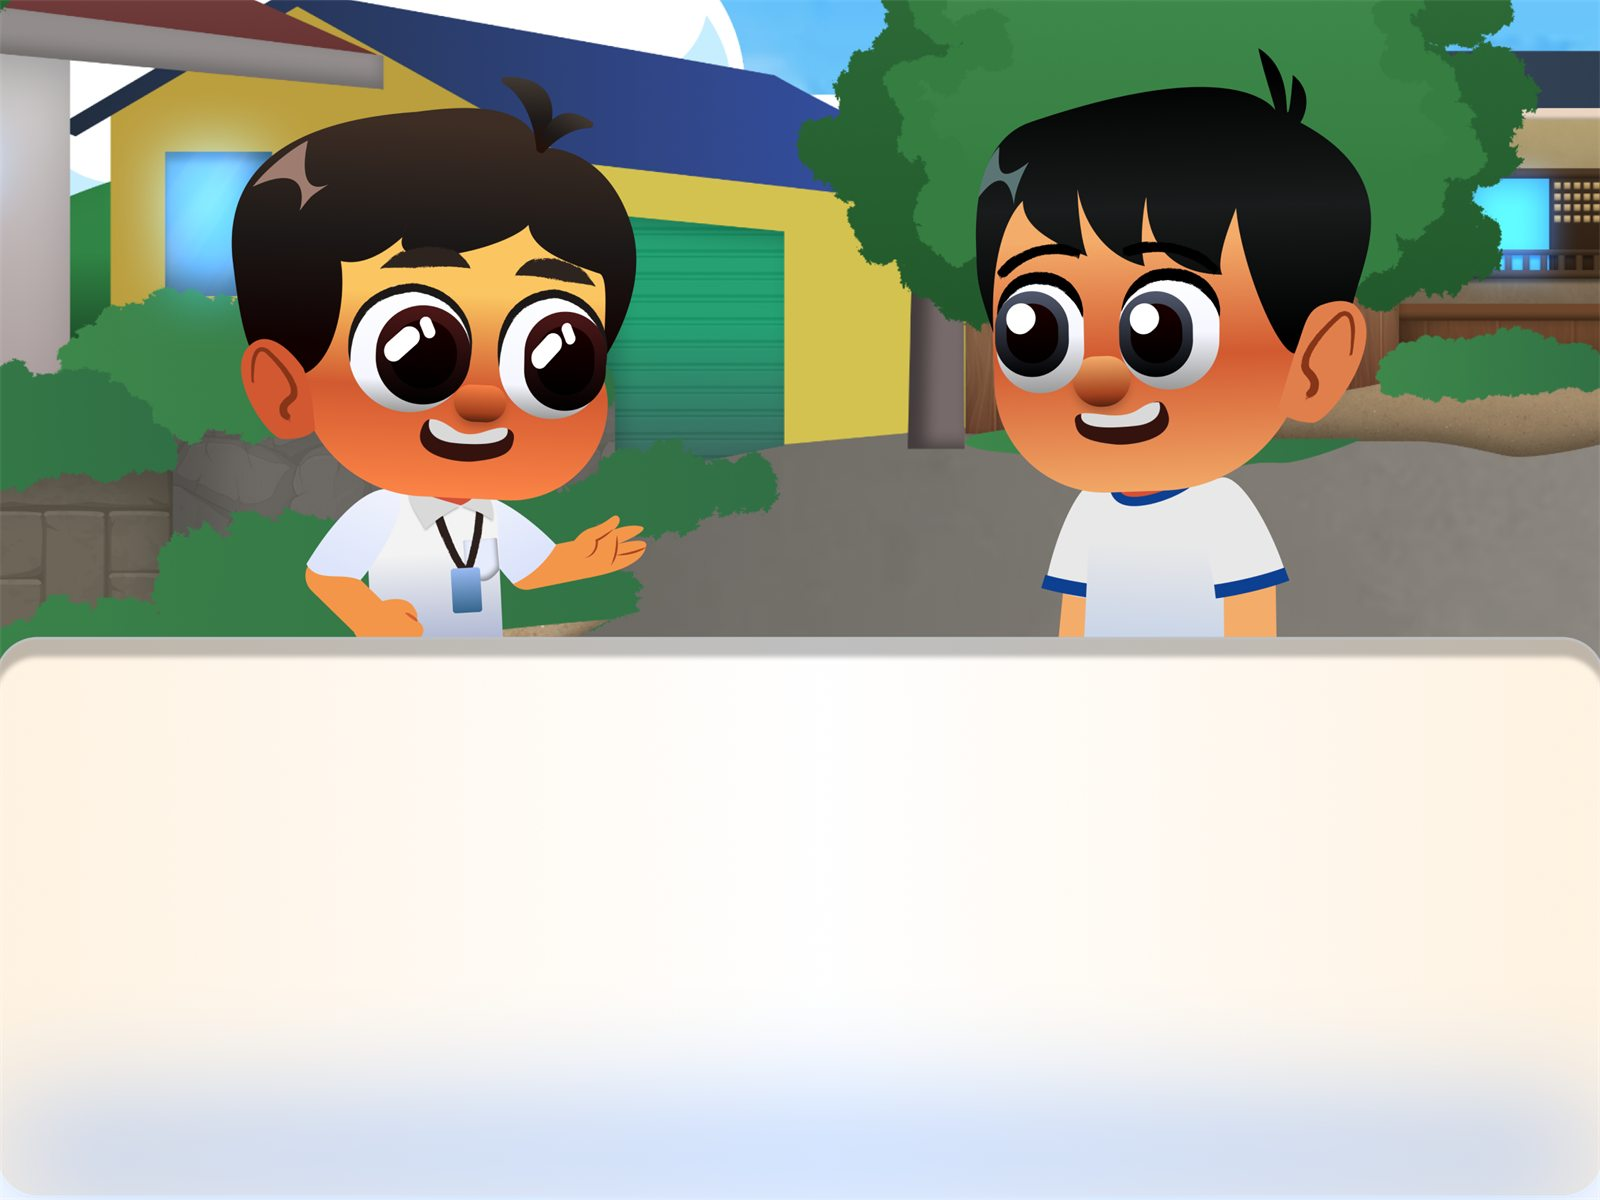
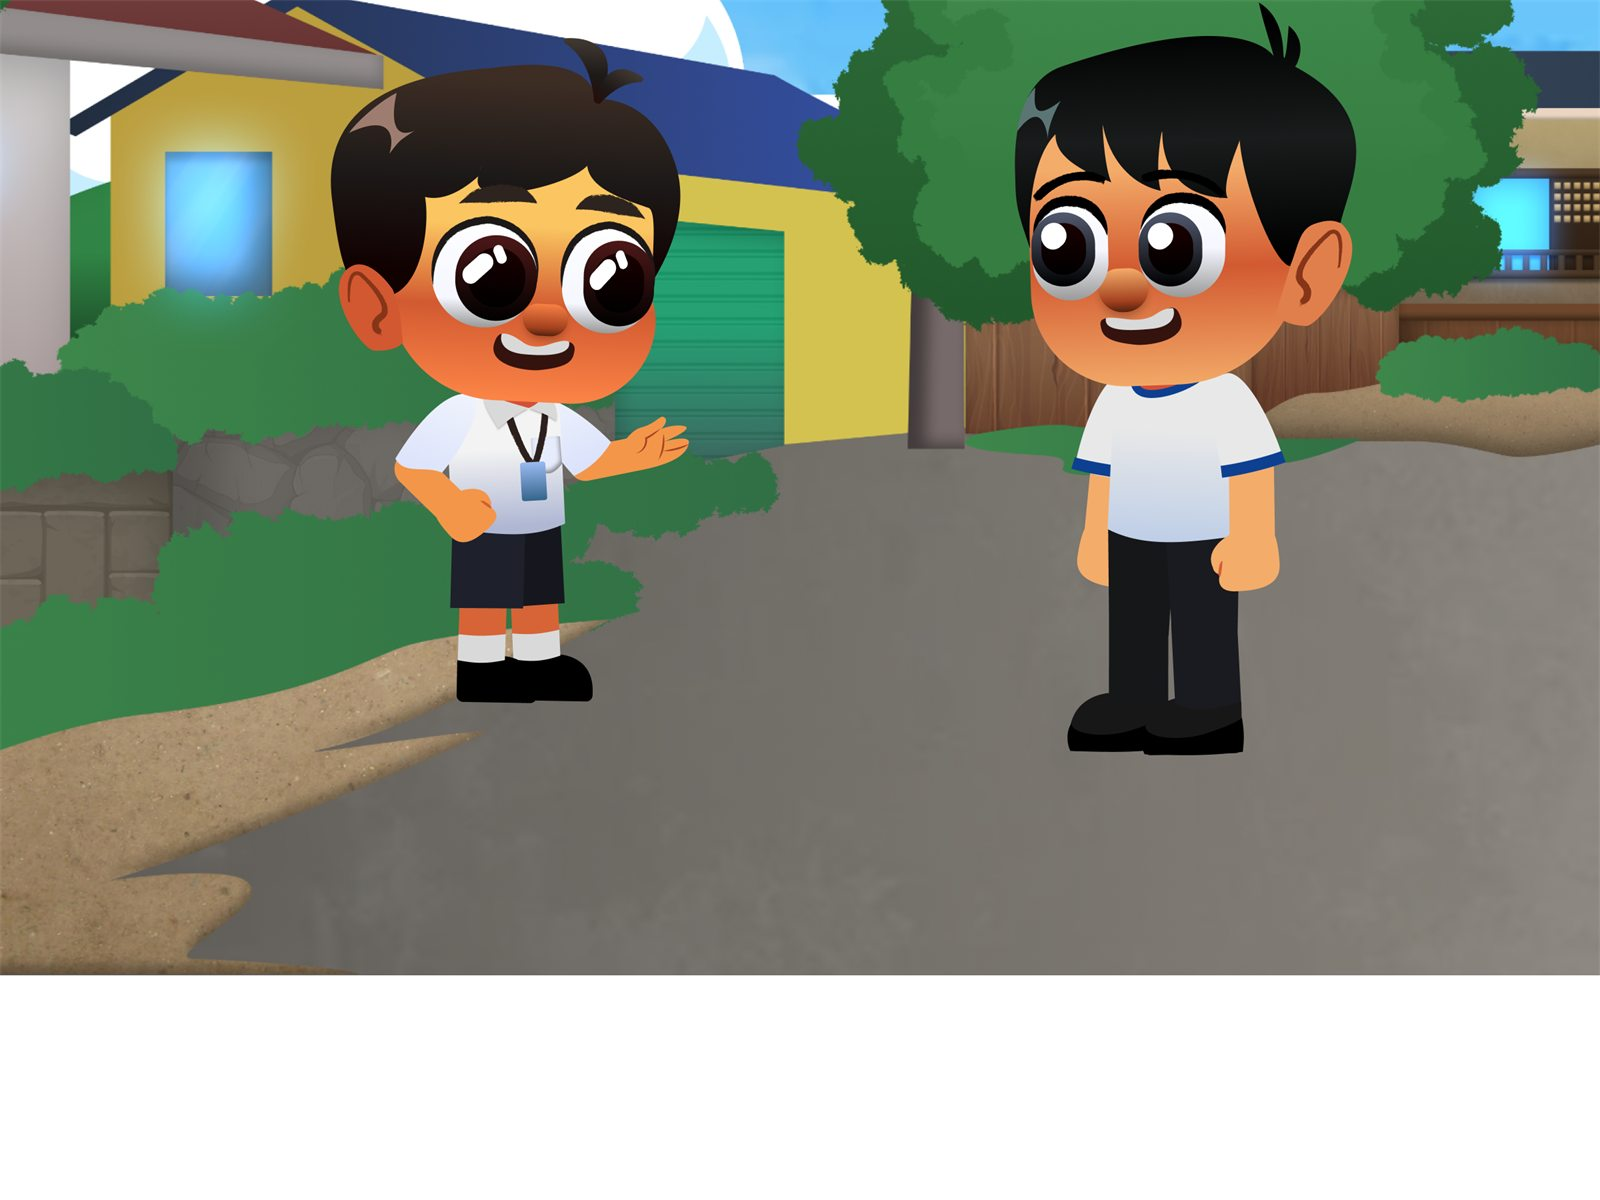
Fill the window with the story art and overlap a separate dialogue box

diff --git a/dashboard/dashboard.js b/dashboard/dashboard.js
@@ -782,6 +782,7 @@
       return;
     }
     if (lkPhone.matches) {      stages.forEach((stage) => { stage.style.transform = ''; });
+      $('st-art').style.transform = '';
       if (bg) bg.style.cssText = '';
       return;
     }
@@ -789,9 +790,13 @@
     const W = scene.clientWidth;
     const H = scene.clientHeight;
     if (lkScene === 'lk-story') {
-      // The story pictures show whole: the same picture, blurred, fills what is left of the window
+      // The illustration covers the window. Its bottom is white, so the box always starts above that: at
+      // the frame's height (478 of 900) on any window. The words scale with the screen and start on the box.
+      const sA = Math.max(W / 1200, H / 900);
+      const up = Math.min(abState.oy, 900 - H / sA);
+      $('st-art').style.transform = `translate(${(W - 1200 * sA) / 2}px, ${-up * sA}px) scale(${sA})`;
       const sS = Math.min(W / 1200, H / 900);
-      stages[0].style.transform = `translate(${(W - 1200 * sS) / 2}px, ${(H - 900 * sS) / 2}px) scale(${sS})`;
+      stages[0].style.transform = `translate(${(W - 1200 * sS) / 2}px, ${H * 478 / 900 - 478 * sS}px) scale(${sS})`;
       return;
     }
     if (lkScene === 'lk-bb') {
@@ -1090,10 +1095,10 @@
       ],
       pamagat: 'ANG PAMILYANG PUNONG-PUNO NG PAGMAMAHAL',
       pahina: [
-        { f: 'f0' },
+        { f: 'f0', oy: 120 },
         { f: 'f1', t: 'Habang naglalakad sa aming barangay, nakita ko ang kaibigan kong si Popoy.' },
         { f: 'f2', t: '<em>“Popoy! Papasok ka na ba sa paaralan? Sabay na tayo!”</em> tawag ko.<br><em>“Hindi. Aalis kami ng mga mama ko,”</em> sagot niya.' },
-        { f: 'f3', t: '<em>“Mga mama? Hindi ba mama at papa ang bumubuo ng pamilya?”</em> pagtataka ko.', spot: [440, 0, 445, 478, 'Si Biboy na nagtataka'], tanong: 'Anong emosyon kaya ito?<br>Ipakita mo rin!' },
+        { f: 'f3', t: '<em>“Mga mama? Hindi ba mama at papa ang bumubuo ng pamilya?”</em> pagtataka ko.', spot: [416, 0, 365, 478, 'Si Biboy na nagtataka'], tanong: 'Anong emosyon kaya ito?<br>Ipakita mo rin!' },
         { f: 'f4', t: '<em>“Mga mama? Hindi ba mama at papa ang bumubuo ng pamilya?”</em> pagtataka ko.' },
         { f: 'f5', t: 'Umiling si Popoy.<br><em>“Dalawa ang mama ko.”</em>' },
         { f: 'f6', t: '<em>“Dalawa ang mama ko at mahal na mahal nila ako.”</em>' },
@@ -1101,35 +1106,35 @@
         { f: 'f8', t: '<em>“Kapag nalulungkot ako, niyayakap nila ako.”</em>' },
         { f: 'f9', t: '<em>“Kapag may sakit ako, inaalagaan nila ako.”</em>' },
         { f: 'f10', t: '<em>“Kapag nahihirapan ako, tinutulungan nila ako.”</em>' },
-        { f: 'f11', t: '<em>“Kapag nahihirapan ako, tinutulungan nila ako.”</em>', spot: [290, 0, 680, 478, 'Si Popoy at ang kanyang dalawang mama'], tanong: 'Mahal ba ng dalawang<br>mama si Popoy?' },
+        { f: 'f11', t: '<em>“Kapag nahihirapan ako, tinutulungan nila ako.”</em>', spot: [265, 0, 730, 478, 'Si Popoy at ang kanyang dalawang mama'], tanong: 'Mahal ba ng dalawang<br>mama si Popoy?' },
         { f: 'f13', t: 'Lumabas ang dalawang mama niya at niyakap siya.' },
         { f: 'f14', t: 'Lumabas ang dalawang mama niya at niyakap siya.' },
-        { f: 'f15', t: 'Lumabas ang dalawang mama niya at niyakap siya.' },
+        { f: 'f15', oy: 40, t: 'Lumabas ang dalawang mama niya at niyakap siya.' },
         { f: 'f16', t: 'Lumabas ang dalawang mama niya at niyakap siya.' },
         { f: 'f17', t: 'Napangiti ako.<br>Doon ko naunawaan.' },
-        { f: 'f18', t: 'Magkaiba man ang pamilya namin, pareho naman kaming minamahal.' },
-        { f: 'f19', t: '<strong>Hindi kailangang magkapareho ang mga pamilya, basta’t puno ng pagmamahal.</strong>', spot: [470, 0, 380, 478, 'Si Biboy na nag-iisip'], tanong: 'Ano ang natutunan ni Biboy<br>tungkol sa pamilya?' },
+        { f: 'f18', oy: 70, t: 'Magkaiba man ang pamilya namin, pareho naman kaming minamahal.' },
+        { f: 'f19', t: '<strong>Hindi kailangang magkapareho ang mga pamilya, basta’t puno ng pagmamahal.</strong>', spot: [416, 0, 365, 478, 'Si Biboy na nag-iisip'], tanong: 'Ano ang natutunan ni Biboy<br>tungkol sa pamilya?' },
       ],
     },
   };
   const abUrl = (id, screen) => `#/lakbay-aralin/kuwento/${id}/ang-babasahin${screen ? `/${screen}` : ''}`;
-  const abState = { esc: null };
+  const abState = { esc: null, oy: 0 };
   const abTabs = (a, b) => `<i class="st-tab" style="left:${a[0]}px;top:${a[1]}px;width:${a[2]}px;height:${a[3]}px"></i><i class="st-tab" style="left:${b[0]}px;top:${b[1]}px;width:${b[2]}px;height:${b[3]}px"></i>`;
 
   function abPage(id, p, tanong) {
     const pic = tanong ? `p${p.f.slice(1)}` : p.f;
-    const art = `<div class="st-art"><img src="${AB_ART}${pic}.jpg" alt="">${!tanong && p.spot ? `<a class="st-spot" id="st-spot" href="${abUrl(id, `${p.f}-tanong`)}" aria-label="${p.spot[4]}: buksan ang tanong" style="--x:${p.spot[0]};--y:${p.spot[1]};--w:${p.spot[2]};--h:${p.spot[3]}"></a>` : ''}</div>`;
+    $('st-art').innerHTML = `<img src="${AB_ART}${pic}.jpg" alt="">${!tanong && p.spot ? `<a class="st-spot" id="st-spot" href="${abUrl(id, `${p.f}-tanong`)}" aria-label="${p.spot[4]}: buksan ang tanong" style="--x:${p.spot[0]};--y:${p.spot[1]};--w:${p.spot[2]};--h:${p.spot[3]}"></a>` : ''}`;
     if (tanong) {
-      return `${art}<div class="st-band">${abTabs([28.6, 565, 126, 99], [126, 565.7, 69, 102.5])}</div>
+      return `<div class="st-band">${abTabs([28.6, 565, 126, 99], [126, 565.7, 69, 102.5])}</div>
         <h1 class="st-q" id="st-focus" tabindex="-1">${p.tanong}</h1>`;
     }
     if (p.f === 'f0') {
-      return `${art}<div class="st-cover">${abTabs([31.7, 64, 115.5, 91.8], [121.5, 65.7, 62.4, 95.4])}
+      return `<div class="st-cover">${abTabs([31.7, 64, 115.5, 91.8], [121.5, 65.7, 62.4, 95.4])}
         <div class="st-plate"><h1 id="st-focus" tabindex="-1">${AB_STORY[id].pamagat}</h1></div>
         <div class="st-tag"><img class="st-tag-bg" src="${AB_ART}tab.svg" alt=""><img class="st-tag-dash" src="${AB_ART}tab-dash.png" alt=""><span>KUWENTO #1</span></div>
         <div class="st-go">${pill({ tone: 'green', label: 'Simulan', name: 'Simulan ang kuwento', href: abUrl(id, 'f1') })}</div></div>`;
     }
-    return `${art}<p class="st-text" id="st-focus" tabindex="-1">${p.t}</p>`;
+    return `<p class="st-text" id="st-focus" tabindex="-1">${p.t}</p>`;
   }
 
   function abShow(id, screen) {
@@ -1158,7 +1163,8 @@
     $('st-stage').innerHTML = abPage(id, page, tanong);
     $('st-stage').dataset.page = screen;
     $('lk-story').classList.toggle('is-q', tanong);
-    $('st-blur').src = `${AB_ART}${tanong ? `p${name.slice(1)}` : name}.jpg`;
+    $('lk-story').classList.toggle('is-whole', tanong || name === 'f0');
+    abState.oy = tanong ? 0 : (page.oy || 0);
     if (after) new Image().src = `${AB_ART}${after.f}.jpg`; // the next page is usually a tap away
     bbState.screen = screen;
     lkShow('lk-story');

diff --git a/dashboard/lakbay.css b/dashboard/lakbay.css
@@ -458,8 +458,13 @@
 
 /* Ang Basahin: the story */
 .lk-story { background: #FFFBF4; overflow: hidden; }
-.st-blur { position: absolute; left: -60px; top: -60px; width: calc(100% + 120px); height: calc(100% + 120px); max-width: none; object-fit: cover; filter: blur(36px); }
 .st-art, .st-art > img { position: absolute; left: 0; top: 0; width: 1200px; height: 900px; max-width: none; }
+.st-art { transform-origin: 0 0; }
+/* The box is 1404 Ã— 533 at (-102, 478) in the frame, so it follows the window both ways */
+.st-box { position: absolute; left: -8.5%; top: 53.11%; width: 117%; height: 59.22%; max-width: none; pointer-events: none; }
+.lk-story.is-whole .st-box { display: none; }
+#st-stage { pointer-events: none; }
+#st-stage a { pointer-events: auto; }
 .st-spot { position: absolute; left: calc(var(--x) * 1px); top: calc(var(--y) * 1px); width: calc(var(--w) * 1px); height: calc(var(--h) * 1px); cursor: pointer; }
 .st-spot:focus-visible { outline: 5px solid #fff; outline-offset: -9px; box-shadow: inset 0 0 0 9px var(--navy); }
 .st-text { position: absolute; left: 102px; top: 544px; width: 996px; color: #001343; text-align: center; font-size: 47px; line-height: 53px; }
@@ -483,18 +488,17 @@
 
 @media (max-width: 700px), (max-width: 900px) and (max-height: 500px) {
   .lk-story { overflow-y: auto; }
-  .st-blur { display: none; }
   .lk-story .lk-stage { display: block; min-height: 0; padding: 0 0 96px; }
   .lk-story .lk-stage > * { left: auto; top: auto; }
   .st-art { position: relative; width: 100%; height: auto; aspect-ratio: 1200 / 478; overflow: hidden; }
   .st-art > img { position: static; display: block; width: 100%; height: auto; }
-  .lk-story.is-q .st-art { aspect-ratio: 4 / 3; }
+  .lk-story.is-whole .st-art { aspect-ratio: 4 / 3; }
+  .st-box { display: none; }
   .st-spot { left: calc(var(--x) / 12 * 1%); top: 0; width: calc(var(--w) / 12 * 1%); height: 100%; }
   .st-text { position: static; width: auto; padding: 24px 20px; font-size: 24px; line-height: 32px; }
   .st-band, .st-tab { display: none; }
   .st-q br { display: none; }
   .st-q { position: static; width: auto; margin: 0; padding: 20px 16px; background: linear-gradient(90deg, #FFAE00 2%, #FBCB39 49%, #FFAE00); font-size: 32px; line-height: 36px; text-wrap: balance; -webkit-text-stroke: 5px #fff; }
-  #st-stage:has(.st-cover) .st-art { aspect-ratio: 4 / 3; order: 2; }
   .st-cover { padding: 16px; display: flex; flex-direction: column; align-items: center; gap: 12px; }
   .st-tag, .st-plate, .st-go { position: static; width: 100%; height: auto; }
   .st-tag img { display: none; }

diff --git a/dashboard/index.html b/dashboard/index.html
@@ -505,7 +505,8 @@
 
           <!-- Ang Basahin, the story: Figma 1012:4296 -->
           <section class="lk-scene lk-full lk-story" id="lk-story" aria-label="Ang Basahin" hidden>
-            <img class="st-blur" id="st-blur" alt="">
+            <div class="st-art" id="st-art"></div>
+            <img class="st-box" src="assets/lakbay/kuwento/box.png" alt="">
             <div class="lk-stage" id="st-stage"></div>
             <div class="bb-nav-stage">
               <a class="bb-nav bb-prev" id="st-prev" href="#/" aria-label="Nakaraan"><img src="assets/lakbay/bago/arrow-back.png" alt=""></a>
